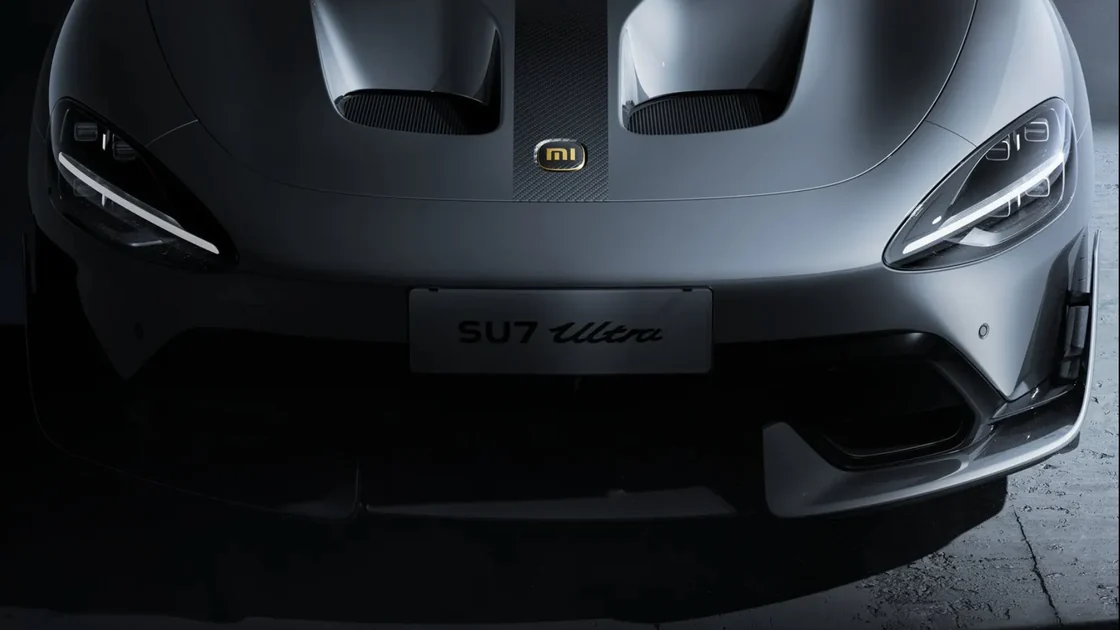
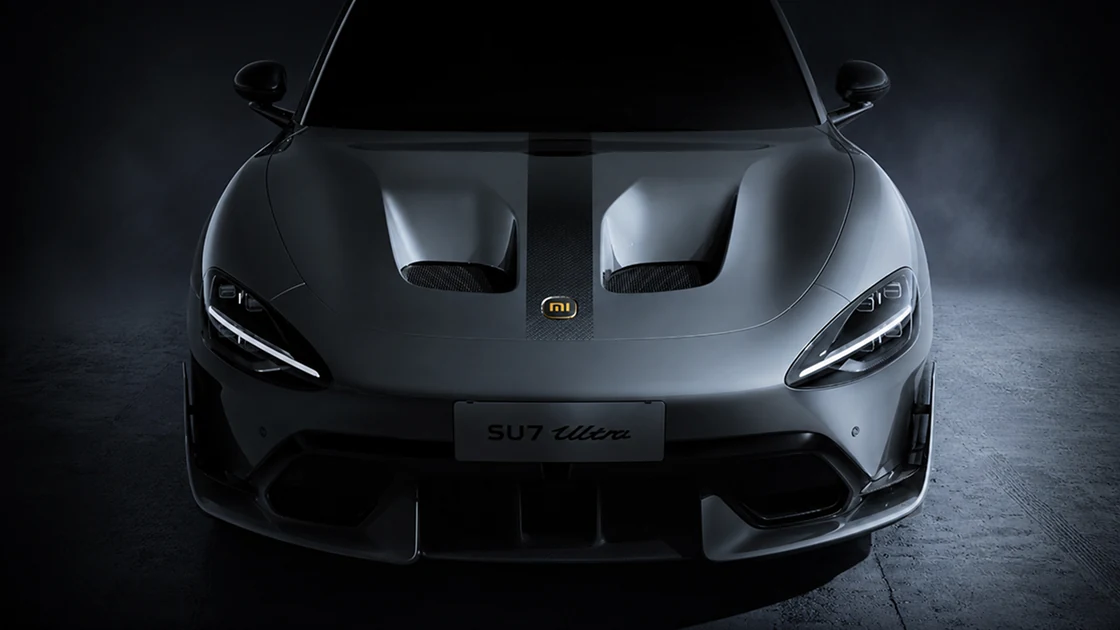
Update SU7 Ultra project cover

diff --git a/src/content/site.ts b/src/content/site.ts
@@ -494,7 +494,7 @@ export const site = {
             context: "Industry",
             status: "Shipped",
             description: "Engineering delivery of the functional front air-duct system on the SU7 Ultra.",
-            image: workImage("su7-duct.webp", "Xiaomi SU7 Ultra functional front air-duct system", "owner-supplied image: codex-clipboard-fdceabdc-c0b7-4ee8-ad4e-79999f010e23.png (credit Image: Xiaomi)"),
+            image: workImage("su7-duct.webp", "Xiaomi SU7 Ultra functional front air-duct system", "owner-supplied image: ~/Desktop/Group 3.png (credit Image: Xiaomi)"),
             coverTone: "dark",
             detail: {
               images: [],

diff --git a/public/media/README.md b/public/media/README.md
@@ -17,7 +17,7 @@ Place owner-supplied WebP files at the exact paths below. Keep every file at or 
 | `public/media/work/seb.webp` | 1120 × 630 | Owner-supplied export from old site `/untitled/seb` |
 | `public/media/work/skynomad.webp` | 1120 × 630 | `~/Desktop/personal/website/78ceda912861c5263ab8a3bb08188de4.jpg`; credit `Image: Xiaomi` |
 | `public/media/work/yu7-hypervision.webp` | 1120 × 630 | `~/Desktop/personal/website/512707016_1185639896941152_6825790499007650197_n.jpg`; credit `Image: Xiaomi` |
-| `public/media/work/su7-duct.webp` | 1120 × 630 | Owner-supplied `codex-clipboard-fdceabdc-c0b7-4ee8-ad4e-79999f010e23.png`; keep the engineering-connection caption in `src/content/site.ts` |
+| `public/media/work/su7-duct.webp` | 1120 × 630 | `~/Desktop/Group 3.png`; keep the engineering-connection caption in `src/content/site.ts` |
 | `public/media/work/midea.webp` | 1120 × 630 | Owner-supplied export from old site `/untitled/midea` |
 | `public/media/work/parageta.webp` | 1120 × 630 | Owner-supplied export from old site `/untitled/parageta` |
 | `public/media/work/agile-charge.webp` | 1120 × 630 | Owner-supplied export from old site `/untitled/agile-charge` |